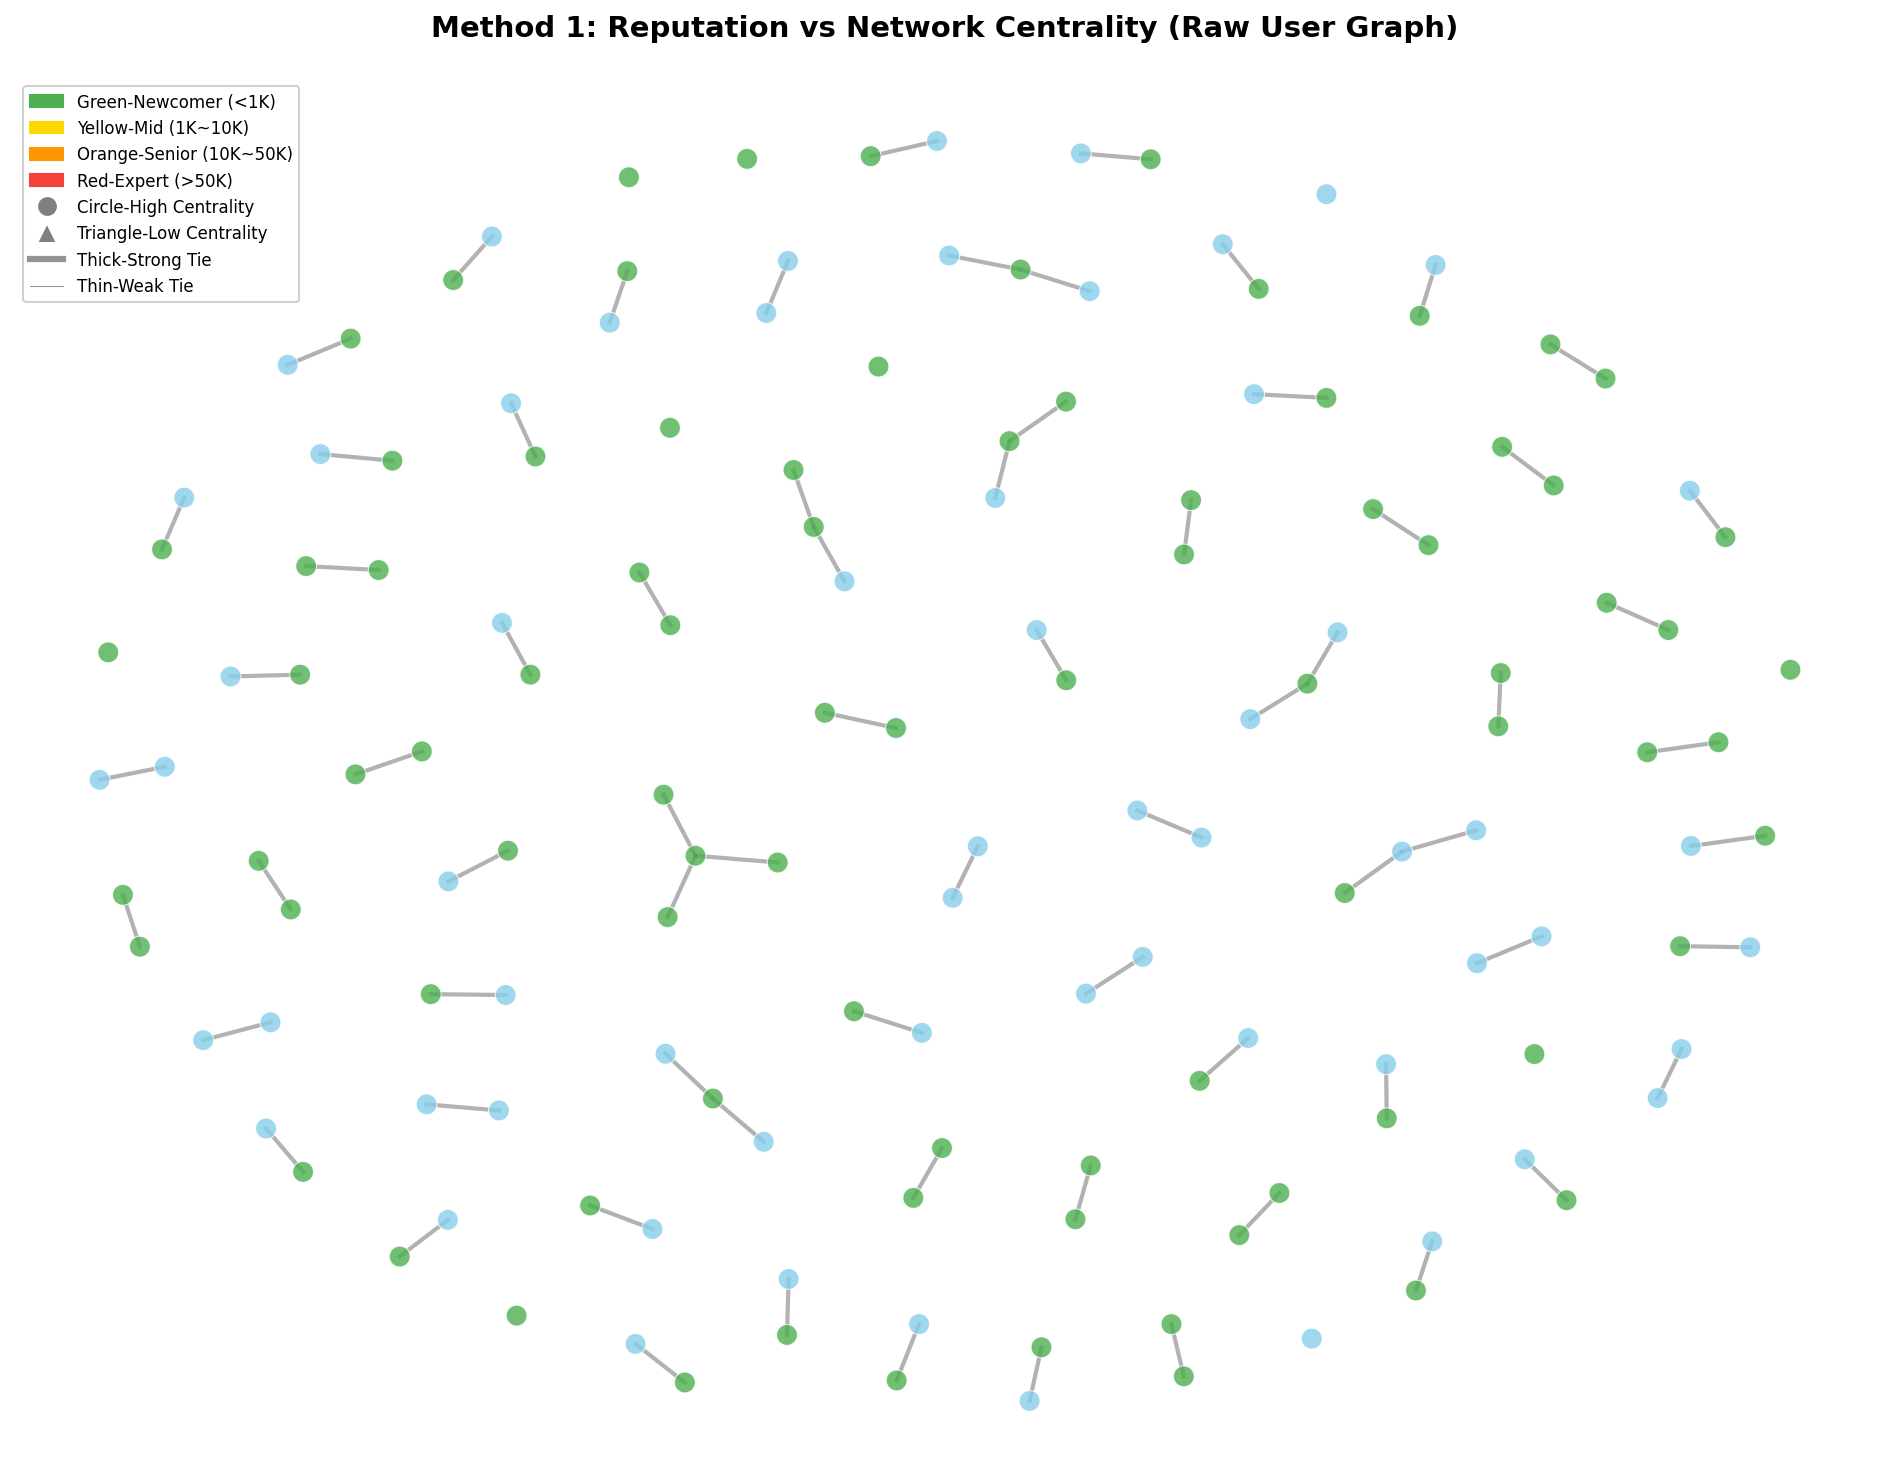
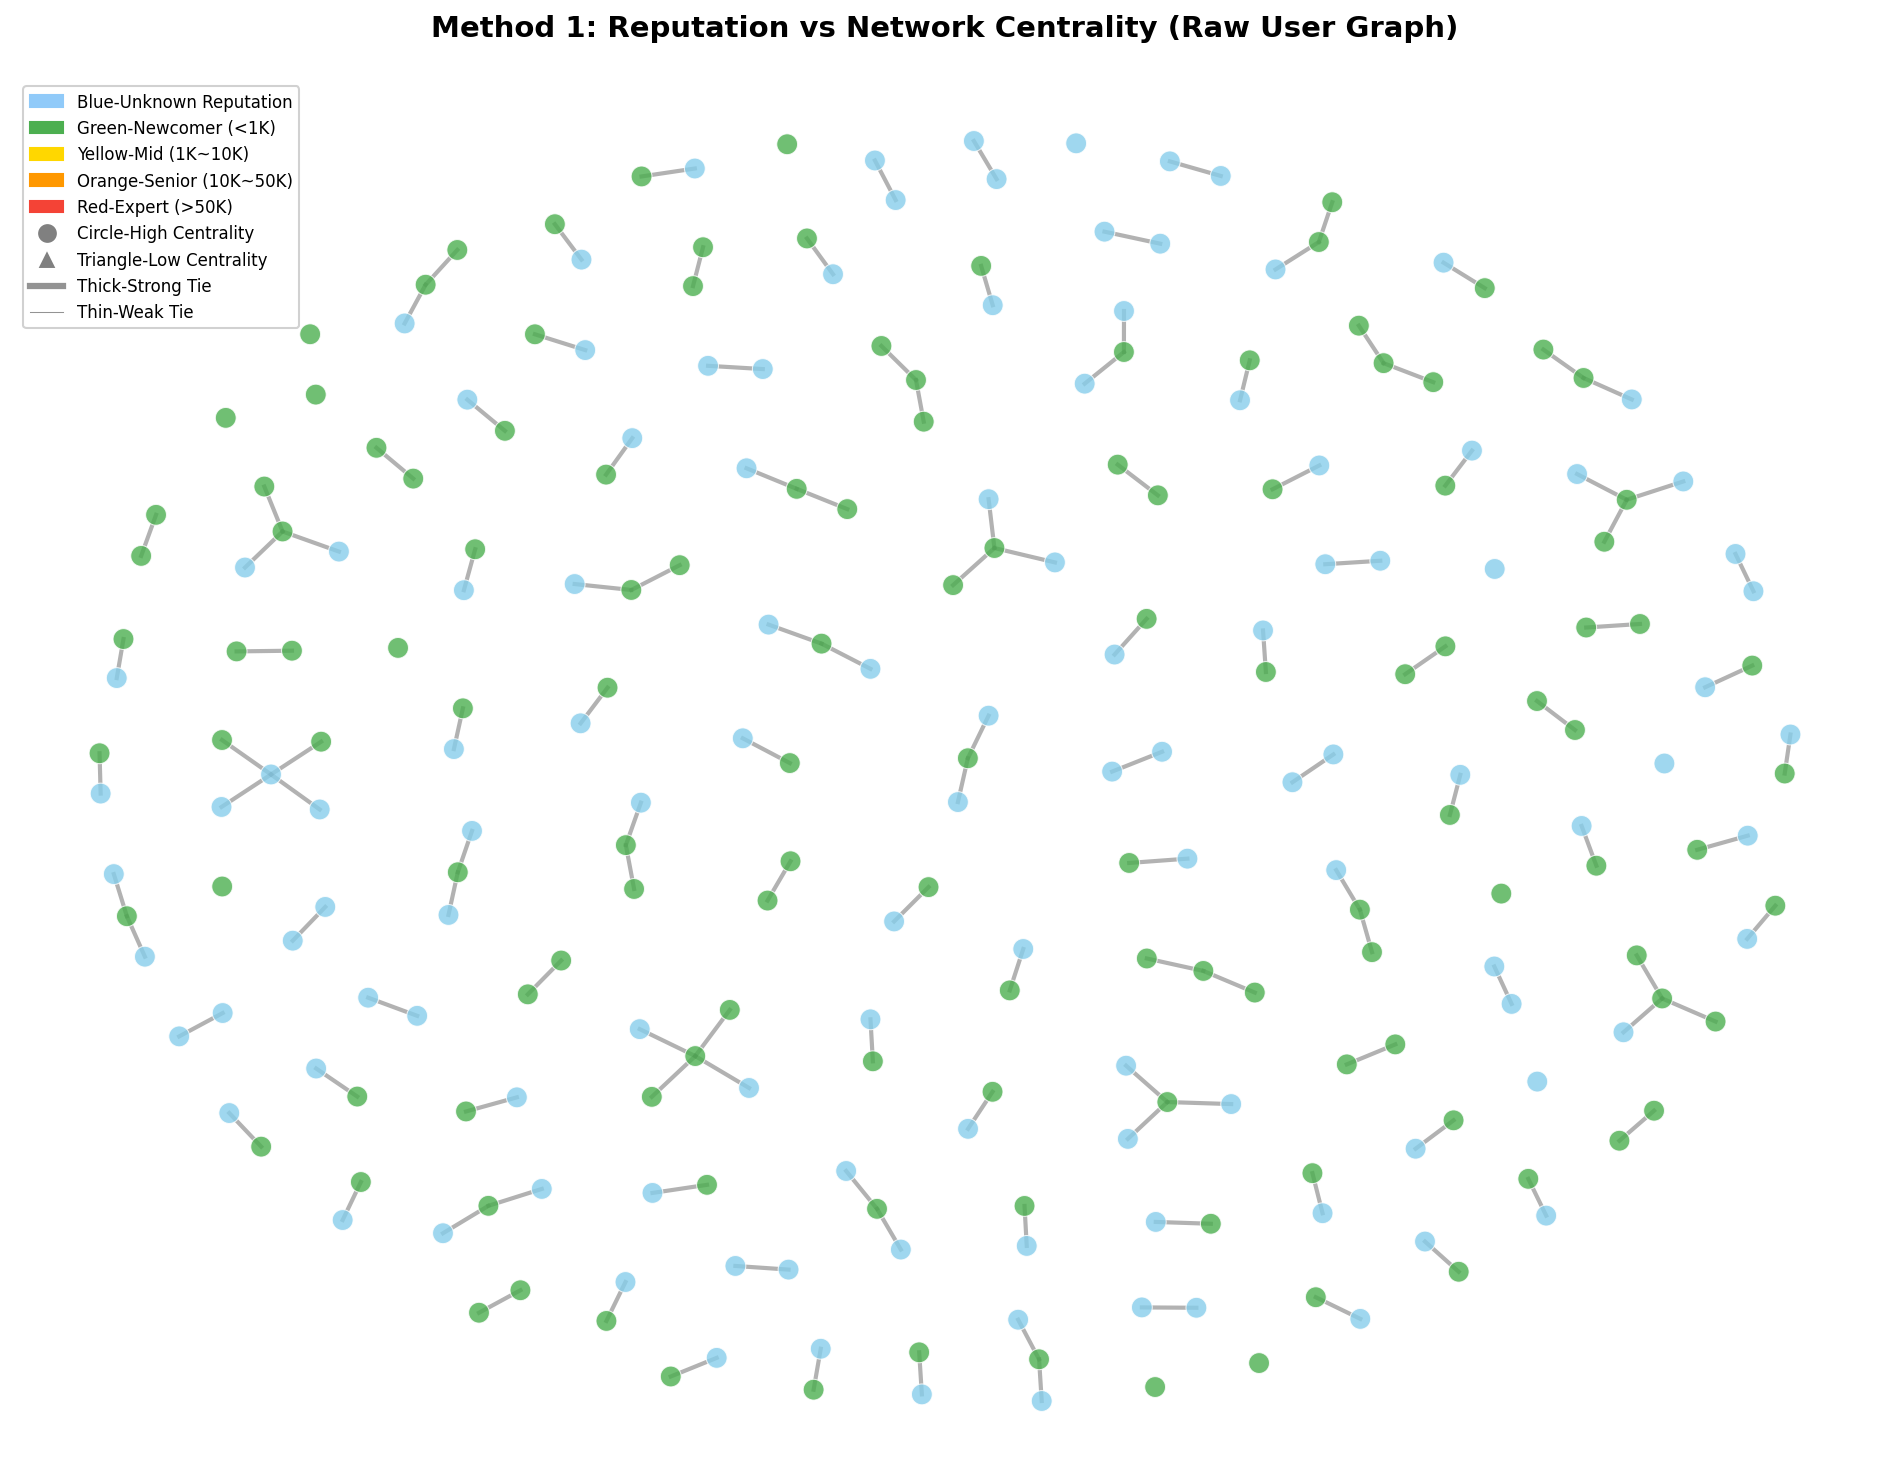
[fix] 圖 1 分析的顏色圖例：藍色是未知聲望

diff --git a/src/analysis/centrality.py b/src/analysis/centrality.py
@@ -98,6 +98,7 @@ class CentralityAnalyzer:
         print(f"  - 聲望與介性中心度相關係數: {correlation:.4f}")
         print(f"  - 高聲望用戶平均介性中心度: {result['high_rep_avg_betweenness']:.4f}")
         print(f"  - 低聲望用戶平均介性中心度: {result['low_rep_avg_betweenness']:.4f}")
+        print(f"  - 未知聲望用戶數: {result['unknown_rep_users']}")
 
         return {
             "graph": self.graph,
@@ -173,10 +174,12 @@ class CentralityAnalyzer:
         high_rep = df[df["reputation_level"] == "4_High"]
         low_rep = df[df["reputation_level"] == "1_Low"]
 
+        unknown_rep = df[df["reputation_level"] == "0_None"]
         summary = {
             "total_users": len(df),
             "high_rep_users": len(high_rep),
             "low_rep_users": len(low_rep),
+            "unknown_rep_users": len(unknown_rep),
             "high_rep_avg_betweenness": high_rep["betweenness"].mean()
             if len(high_rep) > 0
             else 0,

diff --git a/src/sna_runner.py b/src/sna_runner.py
@@ -259,6 +259,7 @@ class SNARunner:
         LEGEND_INFO = {
             "analysis_1": {
                 "colors": {
+                    "Blue-Unknown Reputation": "#90CAF9",
                     "Green-Newcomer (<1K)": "#4CAF50",
                     "Yellow-Mid (1K~10K)": "#FFD700",
                     "Orange-Senior (10K~50K)": "#FF9800",
